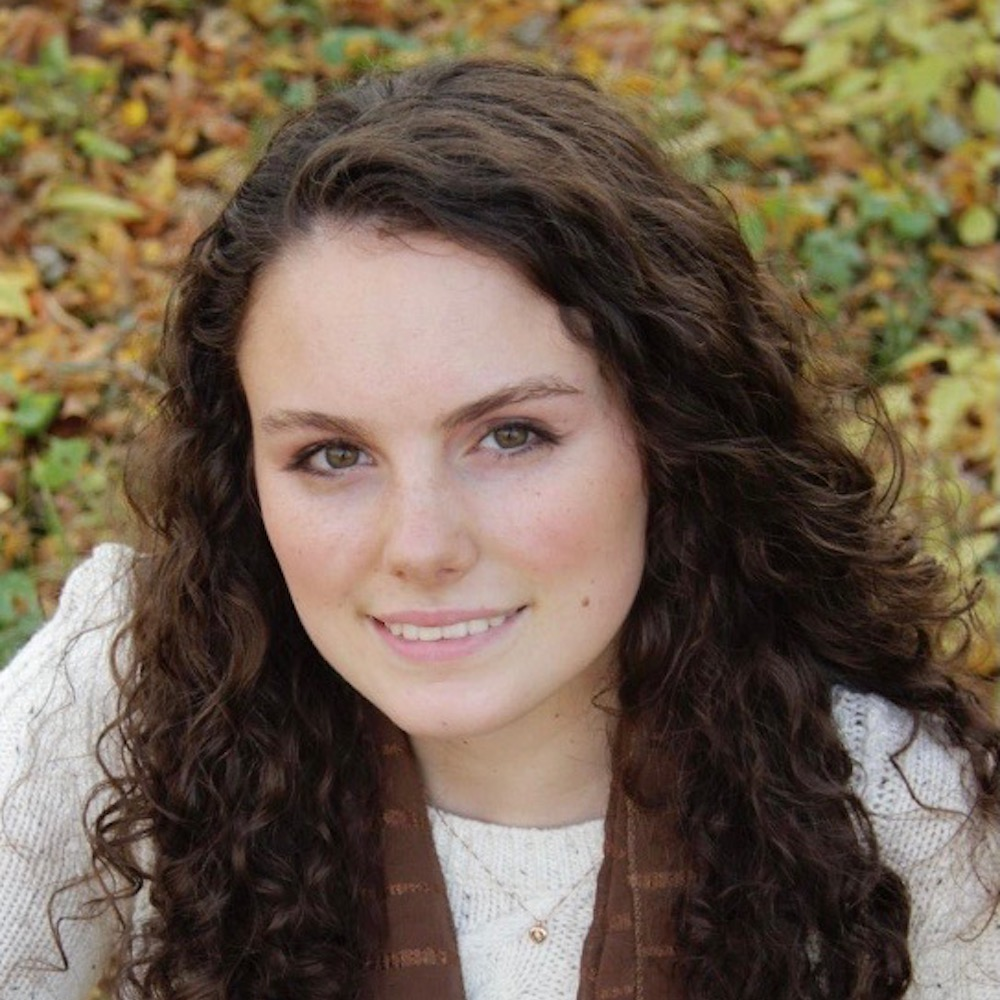
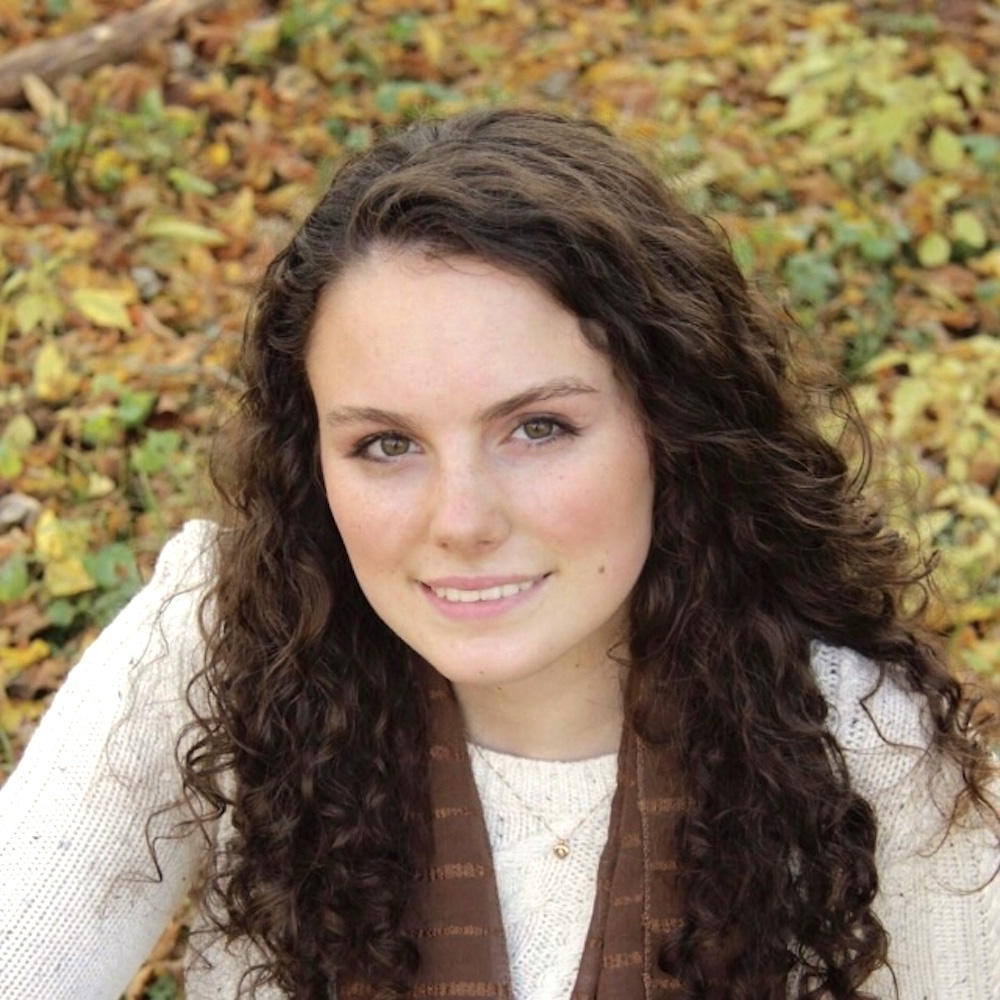
Update photo

diff --git a/members/index.html b/members/index.html
@@ -80,7 +80,7 @@
         </section>
 
         <section class="member-item">
-            <img class="member-photo" src="/assets/img/members/lindsey-way.jpg" alt="">
+            <img class="member-photo" src="/assets/img/members/lindsey-way.jpg?v2" alt="">
             <h2 class="member-name">Lindsey Way</h2>
             <p class="member-role">Undergraduate</p>
             <p>I am an undergraduate student with a double major in Microbiology and Middle Eastern Language and Culture. My natural sense of curiosity has led me to the field of biology where I hope to learn more about the complexities and mysteries of life. Outside of the lab, I am a cyclist on the RideOn women’s cycling team, a tutor, and a volunteer at the Community Kitchen. In my free time, I enjoy biking, cooking, solving jigsaw puzzles, and playing with my four dogs.</p>
